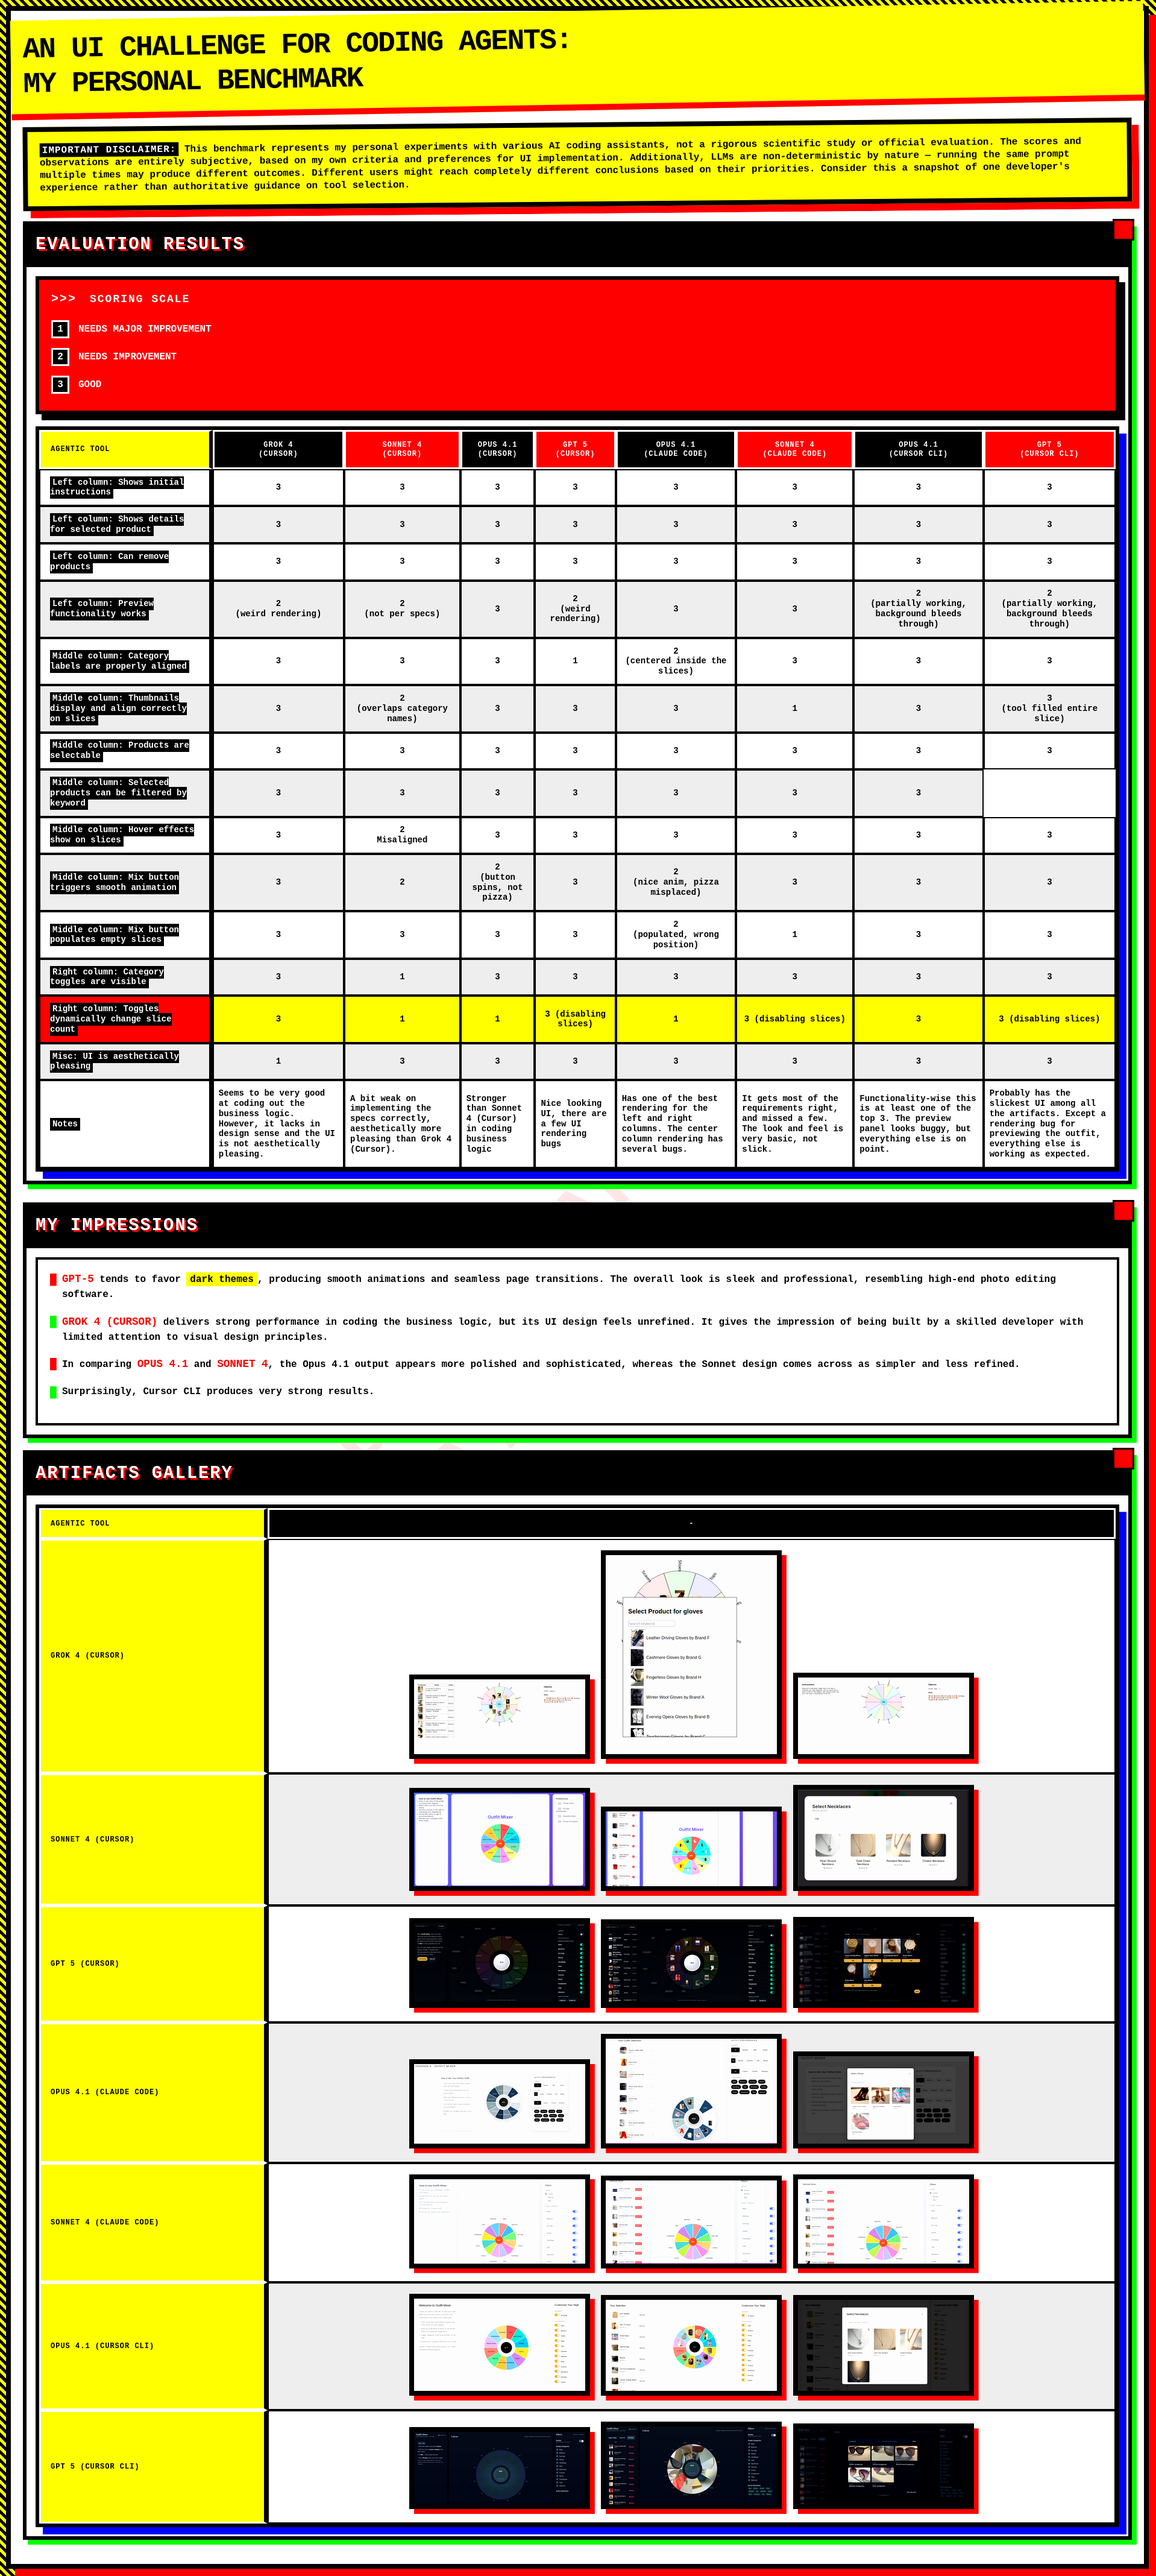
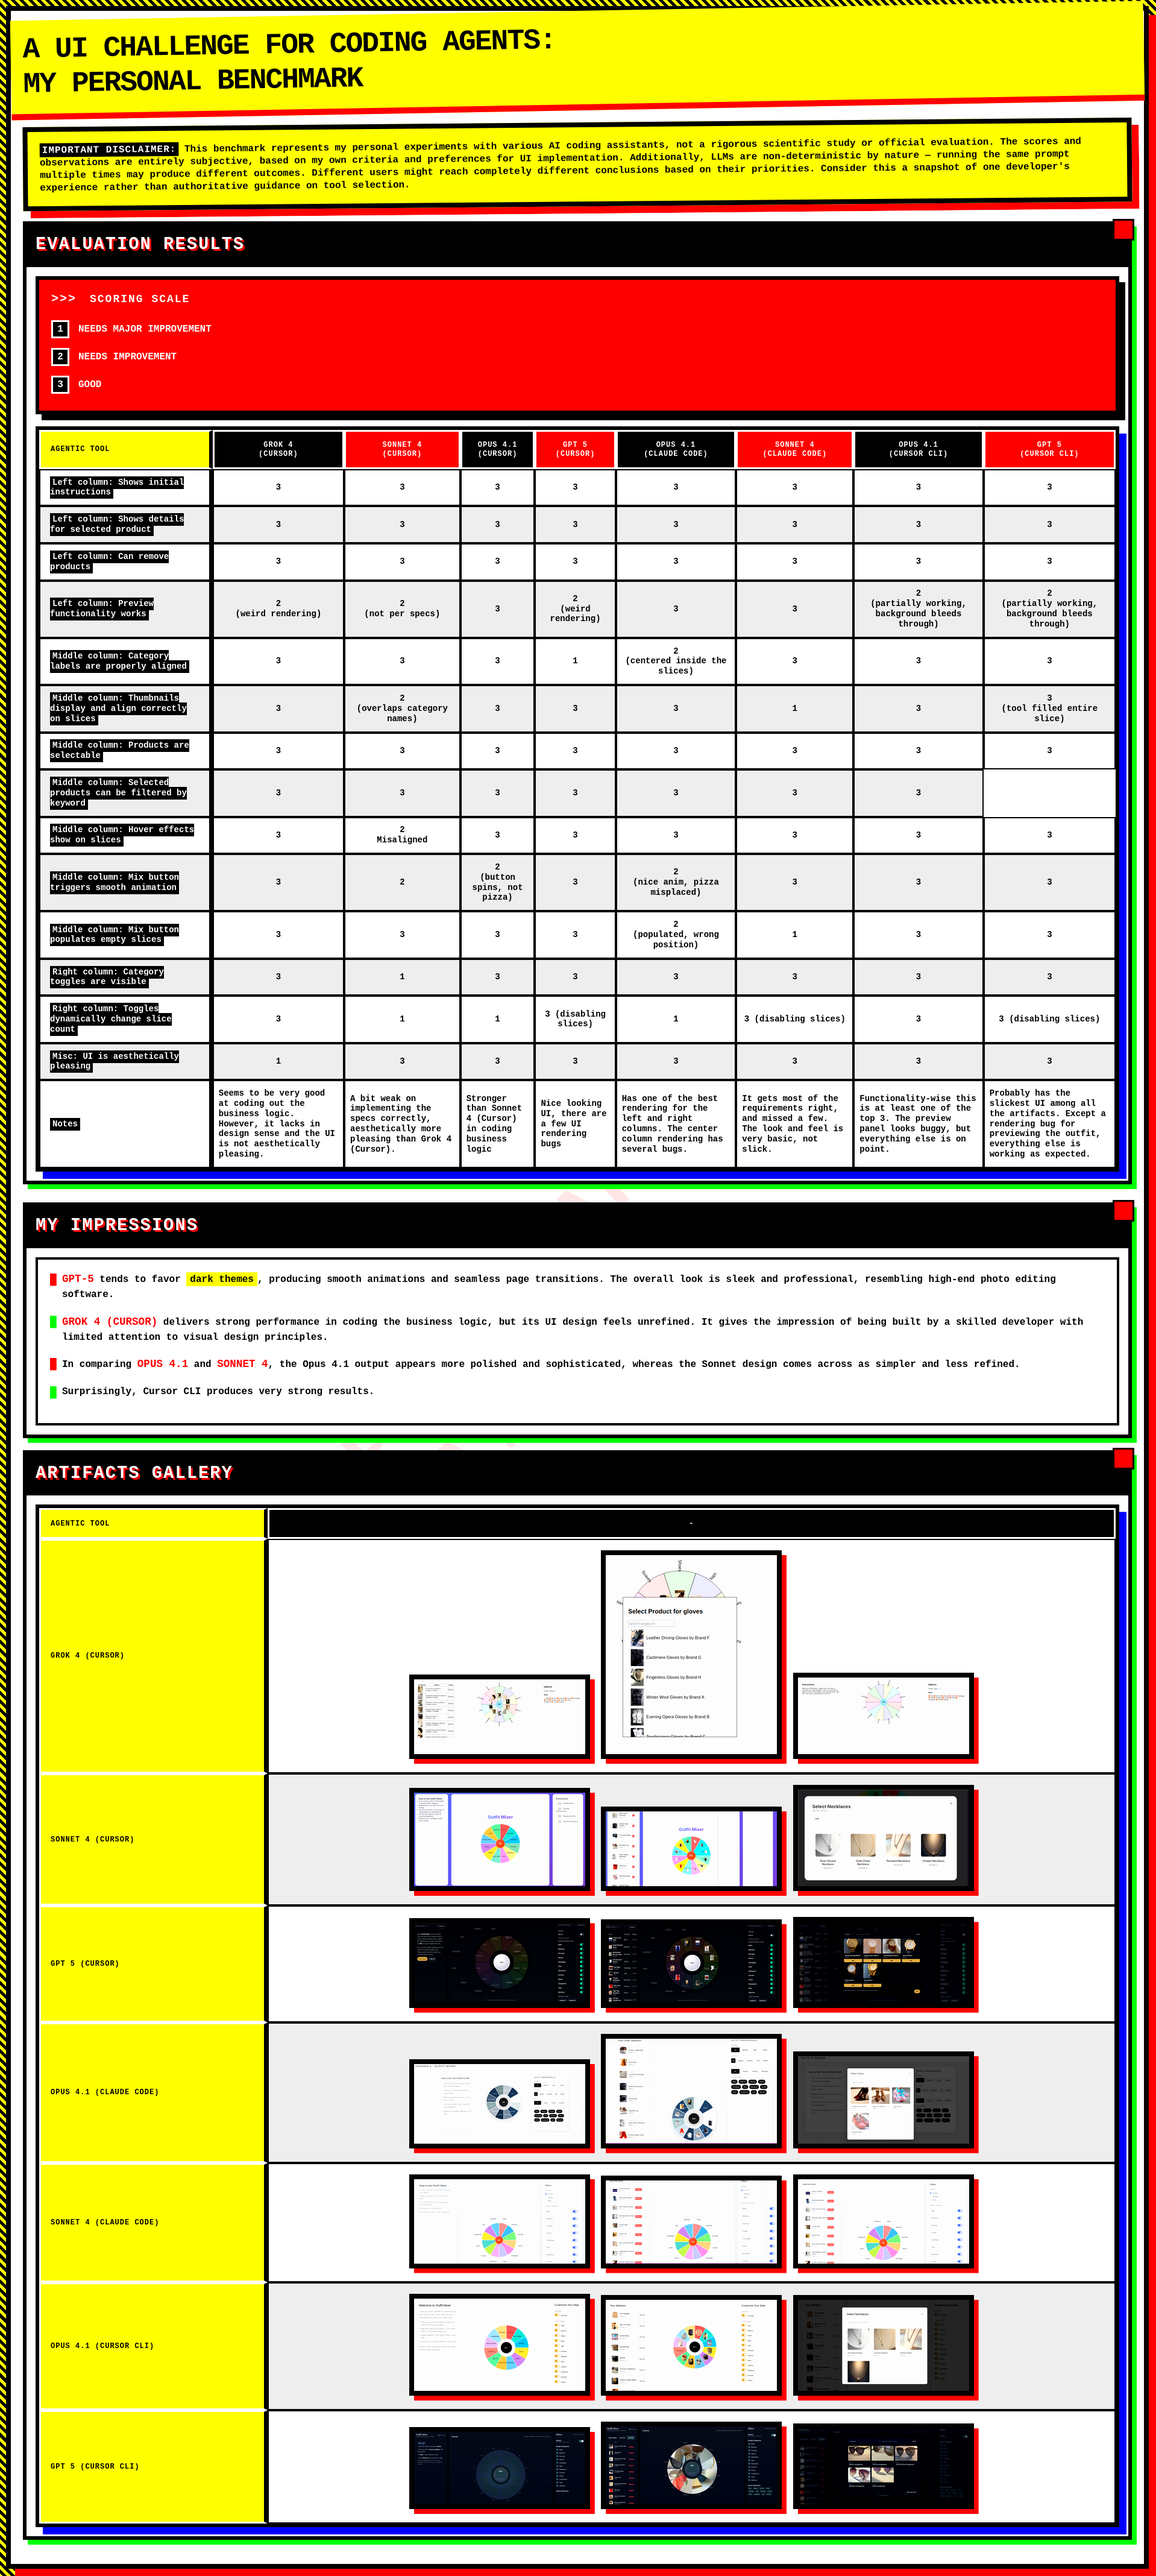
Fix typo

Changed region(s): [[0.0308, 0.3736, 0.9844, 0.4047], [0.1846, 0.0, 0.4922, 0.0311], [0.0308, 0.0, 0.1538, 0.0311]]

diff --git a/benchmark/index.html b/benchmark/index.html
@@ -4,7 +4,7 @@
 <head>
     <meta charset="UTF-8">
     <meta name="viewport" content="width=device-width, initial-scale=1.0">
-    <title>An UI Challenge for Coding Agents: My Personal Benchmark</title>
+    <title>A UI Challenge for Coding Agents: My Personal Benchmark</title>
     <style>
         * {
             margin: 0;
@@ -566,7 +566,7 @@
 
 <body>
     <div class="container">
-        <h1>An UI Challenge for Coding Agents:<br/>My Personal Benchmark</h1>
+        <h1>A UI Challenge for Coding Agents:<br/>My Personal Benchmark</h1>
         
         <div class="disclaimer">
             <strong>Important disclaimer:</strong> This benchmark represents my personal experiments with various AI coding assistants, not a rigorous scientific study or official evaluation. The scores and observations are entirely subjective, based on my own criteria and preferences for UI implementation. Additionally, LLMs are non-deterministic by nature — running the same prompt multiple times may produce different outcomes. Different users might reach completely different conclusions based on their priorities. Consider this a snapshot of one developer's experience rather than authoritative guidance on tool selection.
